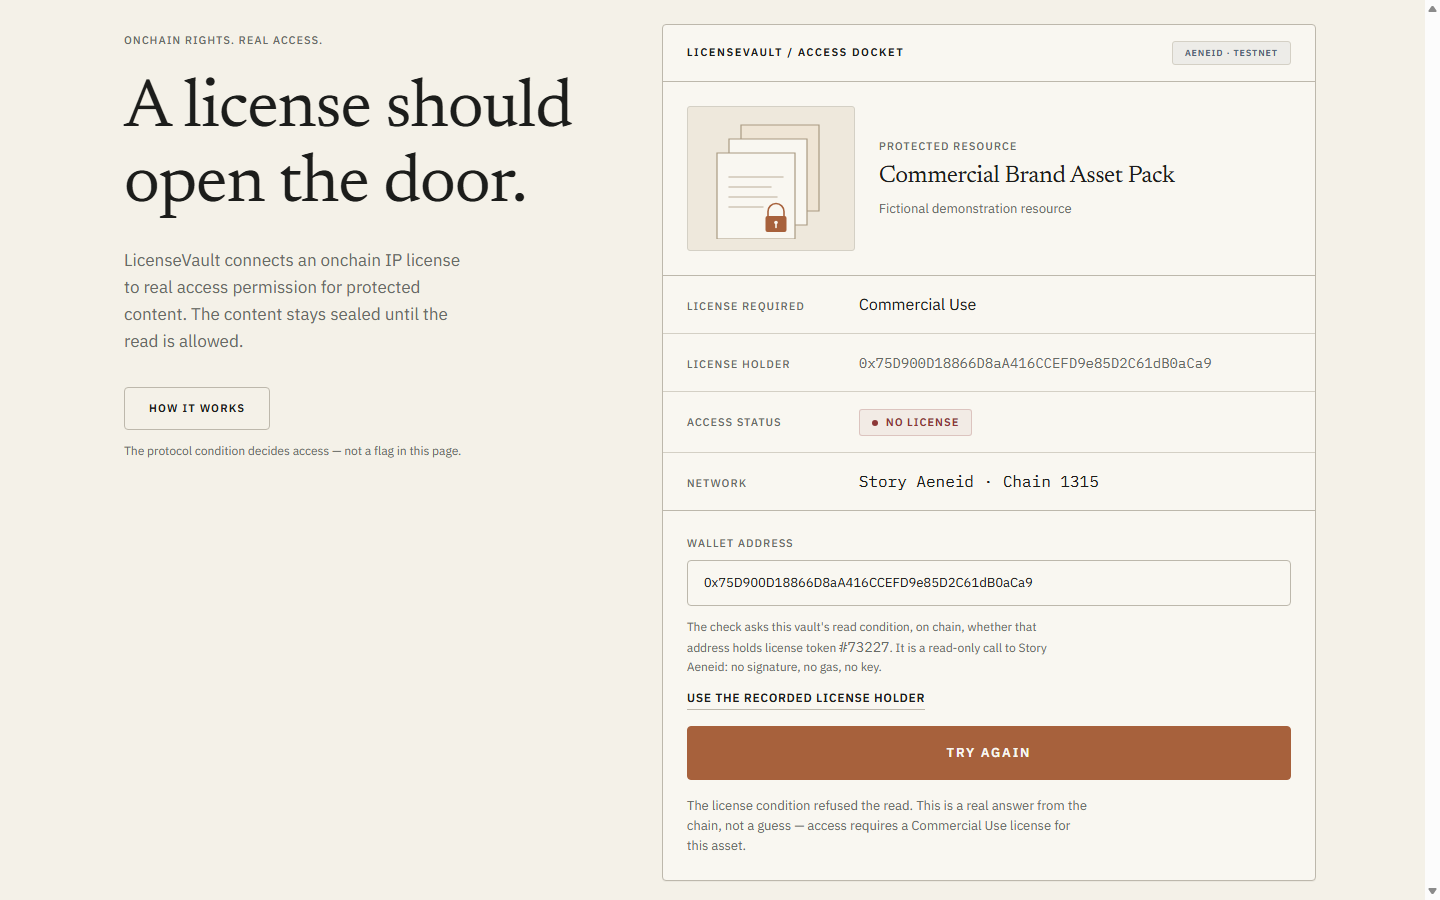
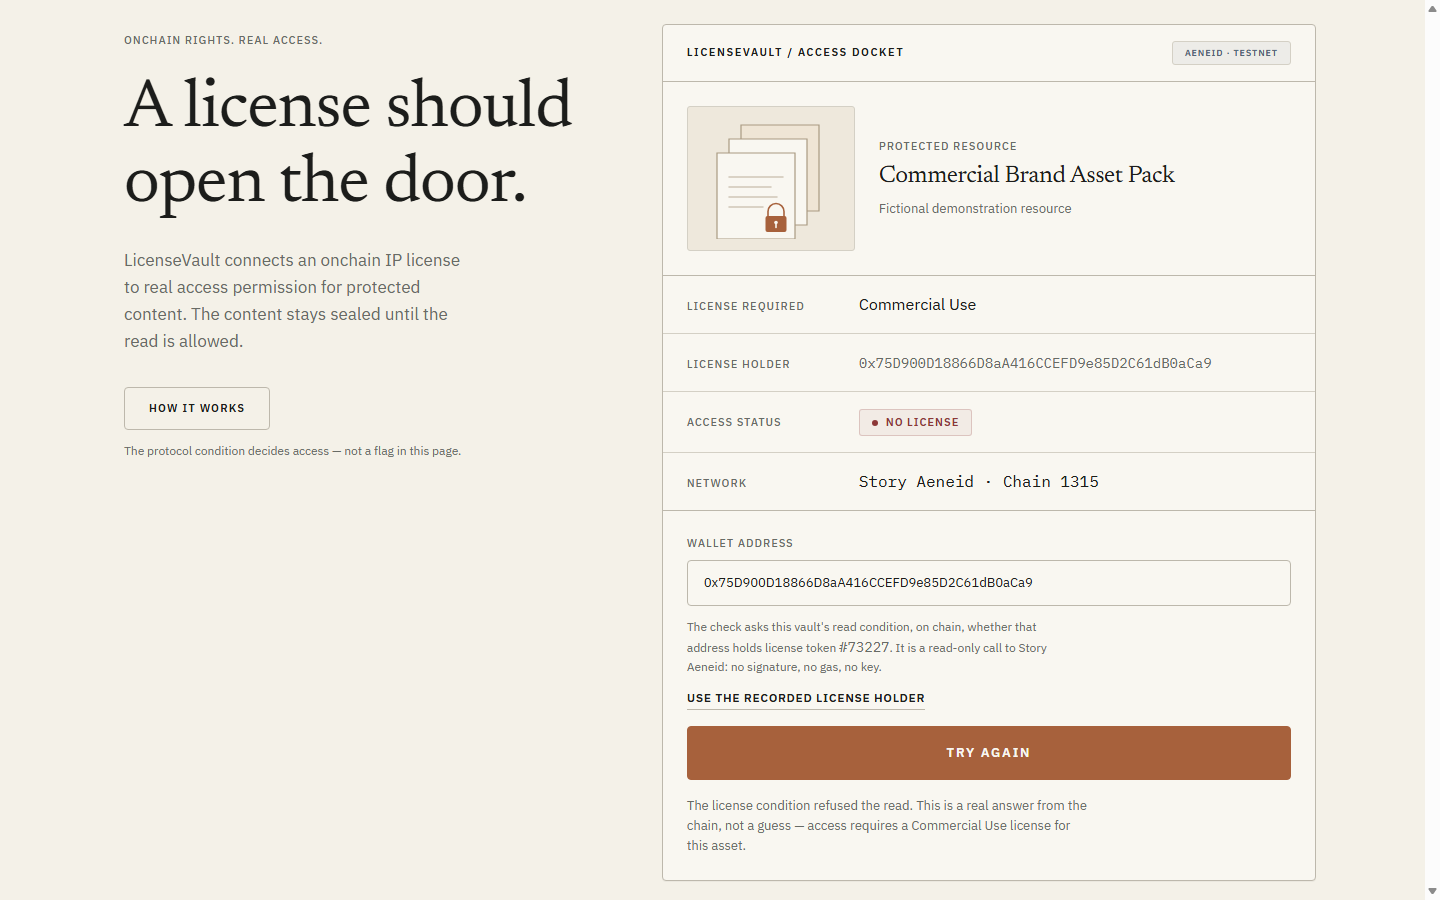
docs: re-measure the visual gate after self-hosting the fonts
Changing how fonts load can move layout, so the 22/24 was not assumed to
survive it. Rebuilt the server and re-measured all six viewports against
the self-hosted stack. Every figure is identical to the pre-change run:

  desktop-1440  header 69  h1 68px     docket 654  42/58 gap64  17px 36c/4L
  desktop-1280  header 69  h1 68px     docket 654  42/58 gap64  17px 36c/4L
  desktop-1024  header 69  h1 56.32px  docket 529  42/58 gap64  17px 36c/4L
  tablet-768    header 69  h1 42.24px  docket 680  single      17px 36c/4L
  mobile-390    header 69  h1 40px     docket 342  single      17px 36c/4L
  mobile-320    header 87  h1 40px     docket 272  single      17px 29c/5L

No horizontal overflow anywhere, and the 320px header height that the
mobile score of 1 is about is unchanged at 87px -- which is the point of
re-measuring rather than declaring victory.

The eight re-captured screenshots differ only in the check timestamp the
docket displays. desktop-verification-error.png was NOT re-captured: it
needs a server whose chain is deliberately unreachable, and the tool
refuses to photograph that state on a healthy one rather than inventing it.

Also documents that both audit tools take the base URL as their first
argument, and that a wrong port is a clean ECONNREFUSED rather than a set
of empty screenshots.

diff --git a/docs/VISUAL_QA.md b/docs/VISUAL_QA.md
@@ -111,3 +111,34 @@ npm run ui:capture                         # LOCKED / VERIFIED / NO LICENSE / PR
 STORY_RPC_URL=http://127.0.0.1:9 npm start -- -p 4174     # deliberately unreachable RPC
 node tools/ui-capture.mjs http://localhost:4174/ qa-screens verification-error
 ```
+
+Both tools take the base URL as their first argument, so a server on another port is
+`node tools/ui-capture.mjs http://localhost:4177/ qa-screens`. Passing the wrong port is a clean
+`ECONNREFUSED`, not a set of empty screenshots — the tool will not photograph a server it cannot
+reach.
+
+---
+
+## Re-captured 2026-10-12, after the fonts were self-hosted
+
+The typography stack moved from `next/font/google` to `next/font/local` (see `app/fonts/README.md`)
+because the Google build-time fetch failed a CI run with twelve font-resolution errors and then
+passed on a re-run. A font change can move layout, so the score was not assumed to still hold.
+
+**Re-measured against the rebuilt server, every viewport identical to the numbers above:**
+
+| Viewport | Overflow | Header | `h1` | Docket | Columns | Supporting sentence |
+|---|---|---|---|---|---|---|
+| desktop-1440 | none | 69px | 68px | 654px | 42/58, gap 64 | 17px, 36 chars/line, 4 lines |
+| desktop-1280 | none | 69px | 68px | 654px | 42/58, gap 64 | 17px, 36 chars/line, 4 lines |
+| desktop-1024 | none | 69px | 56.32px | 529px | 42/58, gap 64 | 17px, 36 chars/line, 4 lines |
+| tablet-768 | none | 69px | 42.24px | 680px | single column | 17px, 36 chars/line, 4 lines |
+| mobile-390 | none | 69px | 40px | 342px | single column | 17px, 36 chars/line, 4 lines |
+| mobile-320 | none | **87px** | 40px | 272px | single column | 17px, 29 chars/line, 5 lines |
+
+Every figure matches the pre-change measurement, including the 320px header height that the mobile
+score of 1 is about. **The 22/24 stands unchanged, and the eight re-captured screenshots differ only
+in the check timestamp the docket displays** — `desktop-verification-error.png` was not re-captured,
+because it requires a server whose chain is deliberately unreachable and the tool refuses to
+photograph that state on a healthy one.
+
